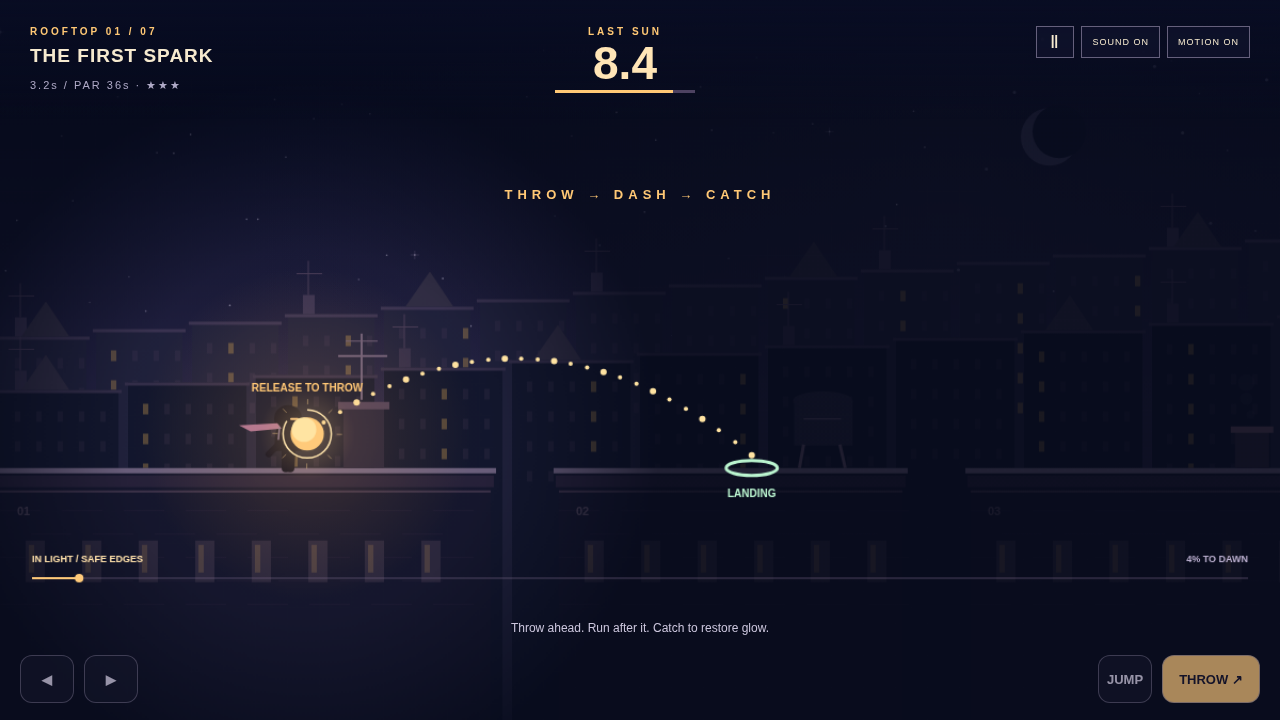
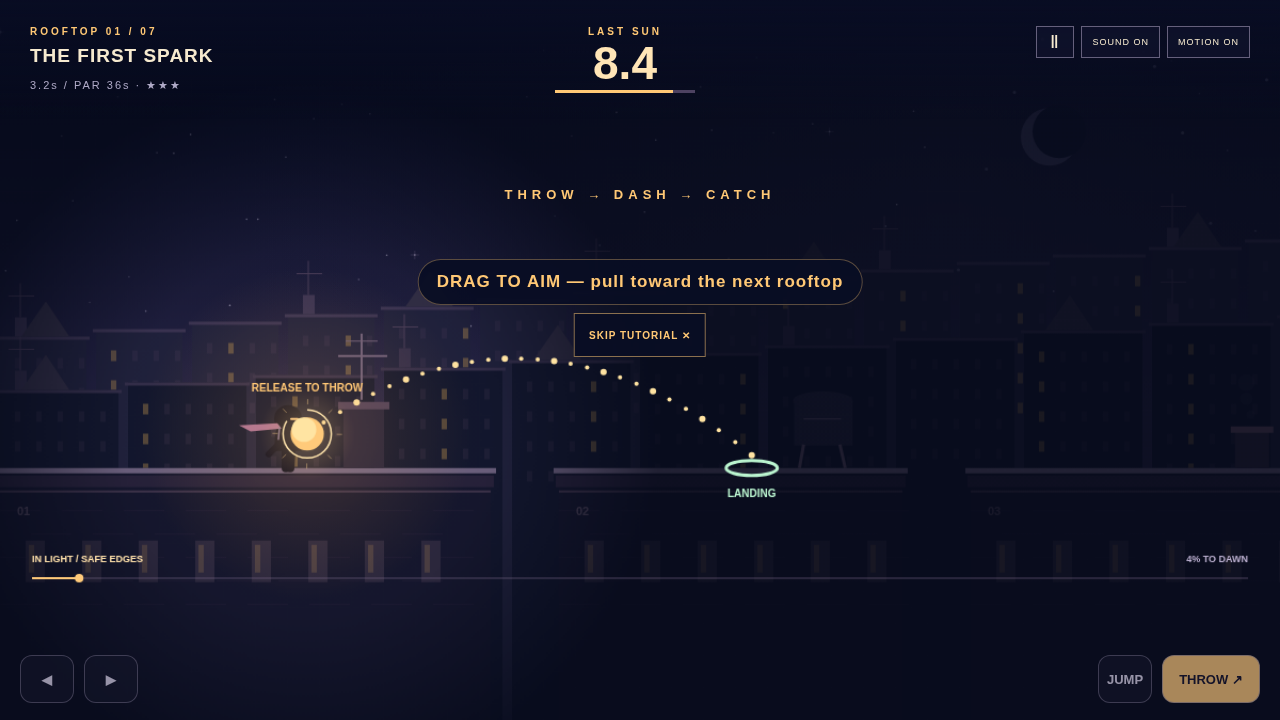
ECLIPSE COURIER: guided Rooftop 01 tutorial + HOW TO PLAY panel

Changed region(s): [[0.3125, 0.3667, 0.6562, 0.4278], [0.4062, 0.8556, 0.5938, 0.8861], [0.4375, 0.4583, 0.5312, 0.4889]]

diff --git a/game/app.js b/game/app.js
@@ -5,11 +5,13 @@ import {installInput} from './input.js';
 import {SolarAudio} from './audio.js';
 import {loadRecords,saveRecord} from './save.js';
 import {courierBot} from './autopilot.js';
+import {createTutorial} from './tutorial.js';
 
 const $=id=>document.getElementById(id);
 const renderer=new CityRenderer($('city')),audio=new SolarAudio();
 let storage;try{storage=localStorage;}catch{storage={getItem:()=>null,setItem:()=>{}};}
 const records=loadRecords(storage);
+const tutorial=createTutorial(storage,records,{box:$('tutorial'),text:$('tutorial-text'),skip:$('tutorial-skip')});
 let run=createRun(),mode='title',totalTime=0,totalStars=0,completed=[],demo=false,frozen=false,stop=0,last=0,accumulator=0;
 const input=installInput($('city'),{
   canAim:()=>mode==='play'&&run.disc.held,
@@ -20,6 +22,7 @@ const input=installInput($('city'),{
 });
 function setMode(value){
   mode=value;input.clear();accumulator=0;
+  if(value!=='play')tutorial.hide();
   $('overlay').hidden=value==='play';
   for(const id of ['title','pause','result','select'])$(id+'-screen').hidden=true;
   const panel={title:'title',pause:'pause',clear:'result',win:'result',lose:'result',select:'select'}[value];
@@ -30,7 +33,7 @@ function setMode(value){
 }
 function start(index=0,newCampaign=false){
   if(newCampaign){totalTime=0;totalStars=0;completed=[];}
-  run=createRun(index);renderer.camera=0;renderer.particles=[];stop=0;frozen=false;setMode('play');updateHUD();renderer.draw(run,mode,input.aim,0);
+  run=createRun(index);tutorial.reset(run,demo);renderer.camera=0;renderer.particles=[];stop=0;frozen=false;setMode('play');updateHUD();renderer.draw(run,mode,input.aim,0);
 }
 function next(){
   if(mode==='win'){start(0,true);return;}
@@ -45,6 +48,7 @@ function updateHUD(){
   $('glow').style.color=run.glow<3?'#ff8e8e':'#ffe5b6';
   $('hint').textContent=run.time<6?run.level.tip:run.disc.held?'DRAG TOWARD YOUR TARGET · RELEASE TO THROW · SPACE TO JUMP':'CHASE THE SUN · CATCH TO REFILL +5s';
   $('callout').textContent=demo?'DEMO / AUTOPILOT':run.disc.held?'THROW → DASH → CATCH':run.lit?'FIND YOUR NEXT SHADOW':'YOU ARE THE FAST THING IN THE DARK';
+  $('hint').hidden=tutorial.update(run,input.aim,{demo,touch:globalThis.matchMedia?.('(pointer:coarse)').matches,aiming:!frozen&&!!input.aim});
 }
 function showResults(value){
   const lost=value==='lose',win=value==='win';
@@ -58,6 +62,7 @@ function showResults(value){
 }
 function finish(){
   if(run.status==='lose'){setMode('lose');return;}
+  if(run.level.index===0)tutorial.complete();
   if(!completed.includes(run.level.index)){completed.push(run.level.index);totalTime+=run.time;totalStars+=run.stars;}
   saveRecord(storage,records,run.level.index,run);
   setMode(run.level.index===6&&completed.length===7?'win':'clear');
@@ -65,6 +70,7 @@ function finish(){
 function tick(){
   if(mode!=='play'||frozen)return;
   const intents=demo?courierBot(run):input.read();
+  tutorial.track(run);
   stepRun(run,intents);
   for(const e of run.events){audio.play(e.type);renderer.burst(e);if(e.type==='land'&&!renderer.reduced)stop=.028;if(e.type==='catch'&&!renderer.reduced)stop=.04;}
   if(run.status!=='play')finish();
@@ -94,6 +100,7 @@ window.addEventListener('resize',()=>renderer.resize());renderer.resize();
 
 function captureState(screen='title',level=0){
   demo=false;run=createRun(Math.max(0,Math.min(6,level)));frozen=true;
+  tutorial.reset(run);input.clear();
   if(screen==='play'){
     run.player.x=270;run.player.y=430;run.time=3.2;run.glow=8.4;run.disc.x=288;run.disc.y=398;
     setMode('play');renderer.camera=0;updateHUD();
@@ -109,6 +116,7 @@ window.ECLIPSE={
   get state(){return {mode,run,totalTime,totalStars,demo,frozen};},
   start:(level=0)=>{demo=false;start(level,true);},
   capture:captureState,
+  tutorial:()=>tutorial.debug(),
   demo:(level=0)=>{demo=true;start(level,true);},
   freeze:(value=true)=>{frozen=value;},
   step:(count=1)=>{for(let i=0;i<count;i++){stepRun(run,courierBot(run));if(run.status!=='play')break;}updateHUD();renderer.draw(run,mode,input.aim,0);return run.status;},

diff --git a/game/style.css b/game/style.css
@@ -1,4 +1,11 @@
 :root{color-scheme:dark;font-family:Arial,Helvetica,sans-serif;color:#f6eacf;background:#090d24;--amber:#ffc875;--muted:#a4a4c1}
+#tutorial{position:fixed;top:36%;left:50%;transform:translateX(-50%);width:max-content;max-width:94vw;text-align:center;pointer-events:none;color:#ffc875;font-size:17px;font-weight:bold;letter-spacing:1px}
+#tutorial-text{display:block;padding:12px 18px;background:#090d24ed;border:1px solid #ffc87555;border-radius:24px}
+#tutorial-skip{display:block;margin:8px auto 0;padding:10px 14px;min-height:44px;font-size:10px;letter-spacing:1px;border:1px solid #ffc87588;background:#090d24ed;pointer-events:auto}
+#howto{max-width:460px;margin:12px auto;padding:10px 16px;border:1px solid #ffc87555;background:#090d24c9;text-align:left;font-size:12px;line-height:1.4}
+#howto h3{margin:0 0 5px;color:var(--amber);font-size:11px;letter-spacing:2px}#howto ol{margin:0;padding-left:20px}#howto b{color:var(--amber)}#howto p{font-size:11px;margin:7px 0 0}
+#title-screen{max-height:100dvh;overflow-y:auto;touch-action:pan-y;scrollbar-width:thin;padding-bottom:32px}#title-screen h1{font-size:clamp(55px,7vw,86px);margin:12px 0 16px}#title-screen .tagline{margin:10px 0 16px}#title-screen .three-verbs{margin:16px 0 10px}
+@media(max-width:700px){#tutorial{font-size:14px;letter-spacing:.4px}#tutorial-text{padding:10px 12px}#howto{padding:9px 12px}}
 *{box-sizing:border-box}body{margin:0;overflow:hidden;touch-action:none;user-select:none}button{font:inherit;color:inherit;cursor:pointer;touch-action:none}button:focus-visible{outline:3px solid #fff;outline-offset:5px}[hidden]{display:none!important}
 #city{position:fixed;width:100%;height:100%;inset:0}#overlay{position:fixed;inset:0;display:grid;place-items:center;background:linear-gradient(90deg,#090d24ed,#090d2490 52%,#090d2410)}
 .screen{width:min(580px,90vw);text-align:center;padding:20px 16px;position:relative}.eyebrow{font-size:11px;font-weight:800;letter-spacing:4px;color:var(--amber);margin-bottom:18px}

diff --git a/game/tutorial.js b/game/tutorial.js
@@ -1,0 +1,41 @@
+const DONE_KEY='eclipse-courier-tutorial-done';
+
+export function tutorialStep(s){
+  let step=0,text='';
+  if(s.levelIndex!==0||s.status!=='play')return {step,text};
+  if(s.catches>0){step=5;text='NOW RUN TO THE DAWN GATE →';}
+  else if(s.discHeld&&s.aiming){step=2;text='RELEASE TO THROW';}
+  else if(s.discHeld&&s.throws===0){step=1;text=s.touch?'HOLD THROW AND DRAG TO AIM':'DRAG TO AIM — pull toward the next rooftop';}
+  else if(!s.discHeld){
+    step=s.playerX-s.throwX>30?4:3;
+    text=step===3?(s.touch?'RUN AFTER IT — HOLD ◀ / ▶':'RUN AFTER IT — ← → OR A / D'):'CATCH IT BEFORE THE GLOW DIES';
+  }
+  return {step,text};
+}
+
+export function createTutorial(storage,records,{box,text,skip}){
+  let done=false,enabled=false,step=0,throwX=0;
+  try{done=storage.getItem(DONE_KEY)==='1';}catch{}
+  function hide(){step=0;box.hidden=true;}
+  function complete(){
+    if(!enabled)return;
+    done=true;enabled=false;
+    try{storage.setItem(DONE_KEY,'1');}catch{}
+    hide();
+  }
+  skip.onclick=complete;
+  return {
+    reset(run,demo=false){enabled=!done&&!records[0]&&run.level.index===0&&!demo;throwX=run.player.x;hide();},
+    track(run){if(enabled&&run.disc.held&&run.throws===0)throwX=run.player.x;},
+    update(run,aim,{demo=false,touch=false,aiming=!!aim}={}){
+      if(!enabled||demo){hide();return false;}
+      if(run.status==='clear'){complete();return false;}
+      const result=tutorialStep({levelIndex:run.level.index,discHeld:run.disc.held,aiming,
+        throws:run.throws,catches:run.catches,playerX:run.player.x,throwX,status:run.status,touch:touch||!!aim?.touch});
+      step=result.step;text.textContent=result.text;box.hidden=step===0;
+      return step!==0;
+    },
+    hide,complete,
+    debug:()=>({active:step!==0,step}),
+  };
+}

diff --git a/game/index.html b/game/index.html
@@ -16,6 +16,7 @@
   </header>
   <div id="callout" hidden>THROW → DASH → CATCH</div>
   <div id="hint" hidden></div>
+  <div id="tutorial" hidden><span id="tutorial-text" role="status"></span><button id="tutorial-skip">SKIP TUTORIAL ✕</button></div>
   <main id="overlay">
     <section id="title-screen" class="screen">
       <div class="eyebrow">THE NIGHT NEEDS A MESSENGER</div>
@@ -23,6 +24,7 @@
       <p class="tagline">You are the shadow.<br>Deliver the last sun.</p>
       <button id="start" class="primary">TAKE THE SUN <span>↗</span></button>
       <div class="three-verbs"><span><b>01</b> THROW</span><span><b>02</b> DASH</span><span><b>03</b> CATCH</span></div>
+      <div id="howto"><h3>HOW TO PLAY</h3><ol><li><b>THROW</b> the sun-disc ahead</li><li><b>DASH</b> through the dark to chase it</li><li><b>CATCH</b> it before its glow dies — then reach the dawn gate</li></ol><p>Mouse: drag to aim, release to throw · A / D or ← → run · SPACE jump · On phone: hold THROW, drag to aim.</p></div>
       <p class="instructions">Drag toward your target & release to throw.<br>A / D or ← / → run · SPACE jump<br>Catch the disc to refill its glow. Bring it to the dawn gate.</p>
       <button id="select-open" class="quiet">7 ROOFTOPS · SELECT ROUTE</button>
     </section>
